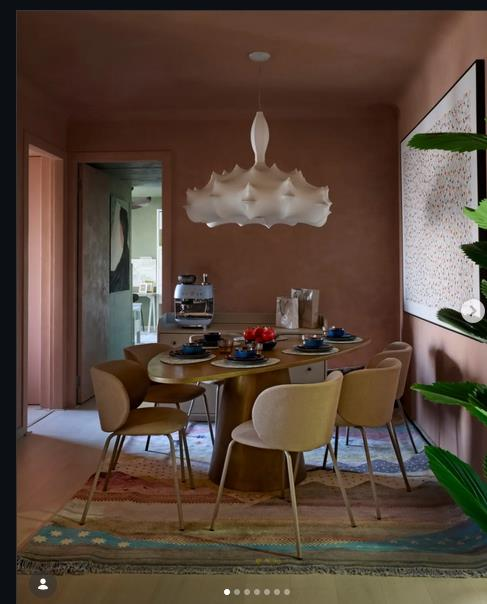
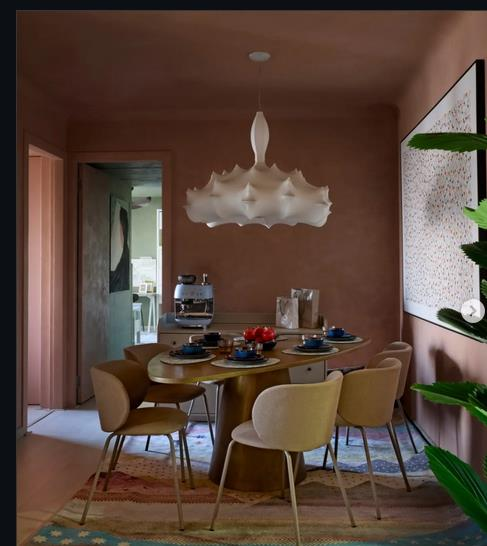
instagram features

diff --git a/src/components/ClientComponents/PublicationsClient.jsx b/src/components/ClientComponents/PublicationsClient.jsx
@@ -14,16 +14,26 @@ const montserrat = Montserrat({
 const localMagazines = [
   {
     id: 1,
+    name: 'FOAID India',
+    issue: 'Instagram Feature',
+    coverImage: '/mags/foaid_cover.jpg',
+    featuredImages: ['/mags/foaid_ig.png'],
+    description: 'Chaitya 777 — Designed by @karandesai_a.d transforms the living room into a bold, immersive space where colour becomes architecture.',
+    externalLink: 'https://www.instagram.com/p/DbSOyQDCFk-/',
+    isInstagram: true,
+  },
+  {
+    id: 2,
     name: 'Elle Decor India',
     issue: 'Instagram Feature',
     coverImage: '/mags/elledecor_cover.jpg',
     featuredImages: ['/mags/elledecor_ig.png'],
     description: 'Someday this would be home — A 1,300 sq ft apartment in Mumbai overlooking Aarey forest by Karan Desai, featured on @elledecorindia.',
-    externalLink: 'https://www.instagram.com/elledecorindia/',
+    externalLink: 'https://www.instagram.com/p/DbNFWwFiobQ/',
     isInstagram: true,
   },
   {
-    id: 2,
+    id: 3,
     name: 'Living Etc',
     issue: 'July 2026 Issue',
     coverImage: '/mags/livingetc1.webp',
@@ -31,7 +41,7 @@ const localMagazines = [
     description: 'AN ESCAPE IN PLAIN SIGHT',
   },
   {
-    id: 3,
+    id: 4,
     name: 'Cover',
     issue: 'June 2026 Issue',
     coverImage: '/mags/cover1.webp',
@@ -39,7 +49,7 @@ const localMagazines = [
     description: 'A special feature showcasing the unique design details across multiple editorial spreads.',
   },
   {
-    id: 4,
+    id: 5,
     name: 'India Today Home',
     issue: 'June 2026 Issue',
     coverImage: '/mags/ithome1.webp',
@@ -47,7 +57,7 @@ const localMagazines = [
     description: 'Featuring the custom KDH Marble Console collection and minimal design aesthetics in a high-end luxury residence.',
   },
   {
-    id: 5,
+    id: 6,
     name: 'Fortune India',
     issue: 'June 2026 Issue',
     coverImage: '/mags/fortune1.webp',
@@ -393,7 +403,9 @@ export default function PublicationsClient({ articles, features }) {
                   <div className="w-full flex flex-col md:flex-row gap-8 justify-center items-stretch max-w-4xl">
                     {/* Cover Spread */}
                     <div className="w-full md:flex-1 flex flex-col items-center justify-center">
-                      <span className="text-[10px] uppercase tracking-widest text-zinc-500 mb-2 font-semibold">Magazine Cover</span>
+                      <span className="text-[10px] uppercase tracking-widest text-zinc-500 mb-2 font-semibold">
+                        {selectedMagazine.isInstagram ? 'Project Photo' : 'Magazine Cover'}
+                      </span>
                       <div
                         onClick={() => { setZoomedImage(selectedMagazine.coverImage); setIsZoomedIn(false); }}
                         className="relative w-full max-w-[320px] aspect-[3/4] rounded-lg overflow-hidden border border-zinc-800/80 shadow-2xl cursor-zoom-in hover:opacity-95 transition-opacity duration-300"
@@ -426,7 +438,9 @@ export default function PublicationsClient({ articles, features }) {
                         {/* Feature Spread */}
                         <div className="w-full md:flex-1 flex flex-col items-center justify-center">
                           <span className="text-[10px] uppercase tracking-widest text-zinc-500 mb-2 font-semibold">
-                            Featured Page {selectedMagazine.featuredImages.length > 1 ? activeFeaturedIndex + 1 : ''}
+                            {selectedMagazine.isInstagram
+                              ? 'Instagram Post & Caption'
+                              : `Featured Page ${selectedMagazine.featuredImages.length > 1 ? activeFeaturedIndex + 1 : ''}`}
                           </span>
                           <div
                             onClick={() => { setZoomedImage(selectedMagazine.featuredImages[activeFeaturedIndex]); setIsZoomedIn(false); }}

diff --git a/src/app/publications/page.js b/src/app/publications/page.js
@@ -46,6 +46,12 @@ export const metadata = {
 
 const articles = [
   {
+    id: 31,
+    text: `Chaitya 777 — FOAID India Feature`,
+    image: '/articles/elledecor.webp',
+    link: `https://www.instagram.com/p/DbSOyQDCFk-/`,
+  },
+  {
     id: 30,
     text: `Someday this would be home — Elle Decor Feature`,
     image: '/articles/elledecor.webp',
